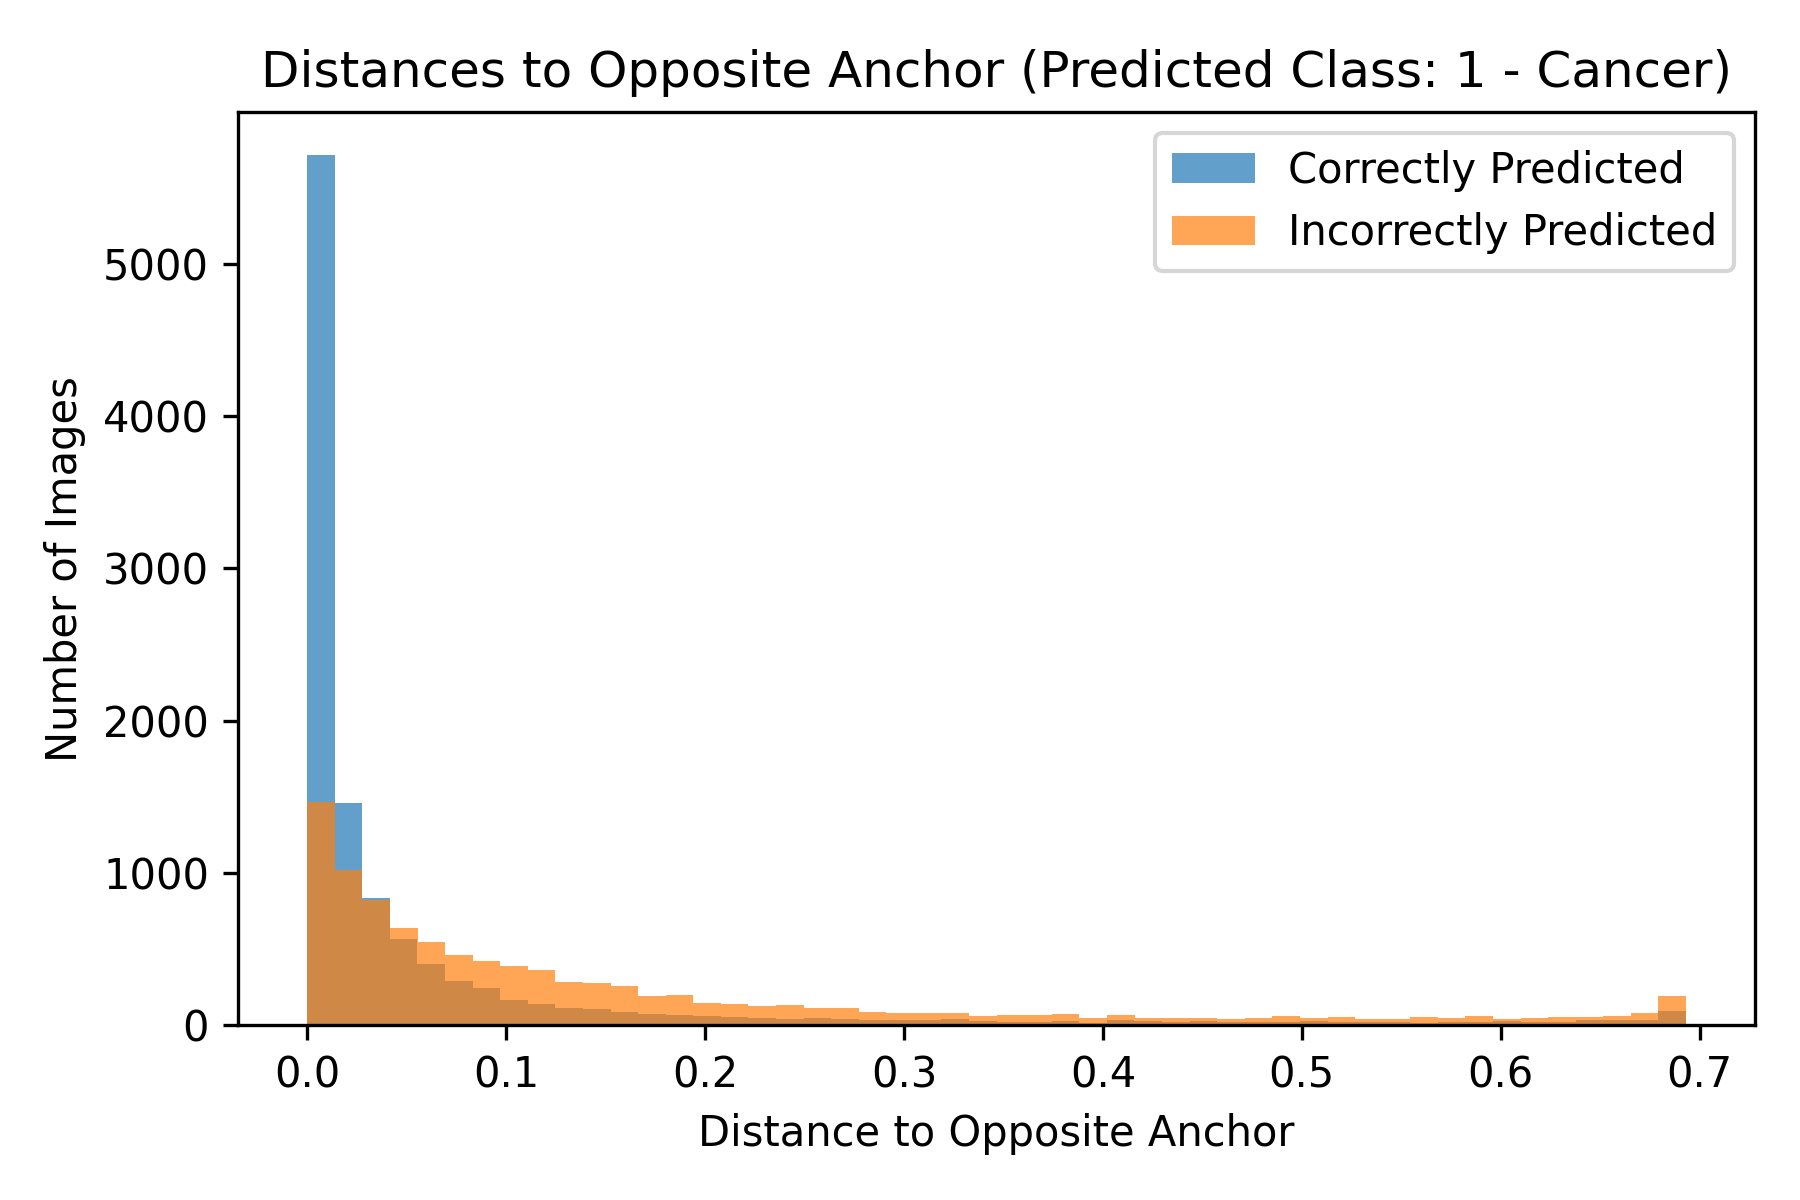
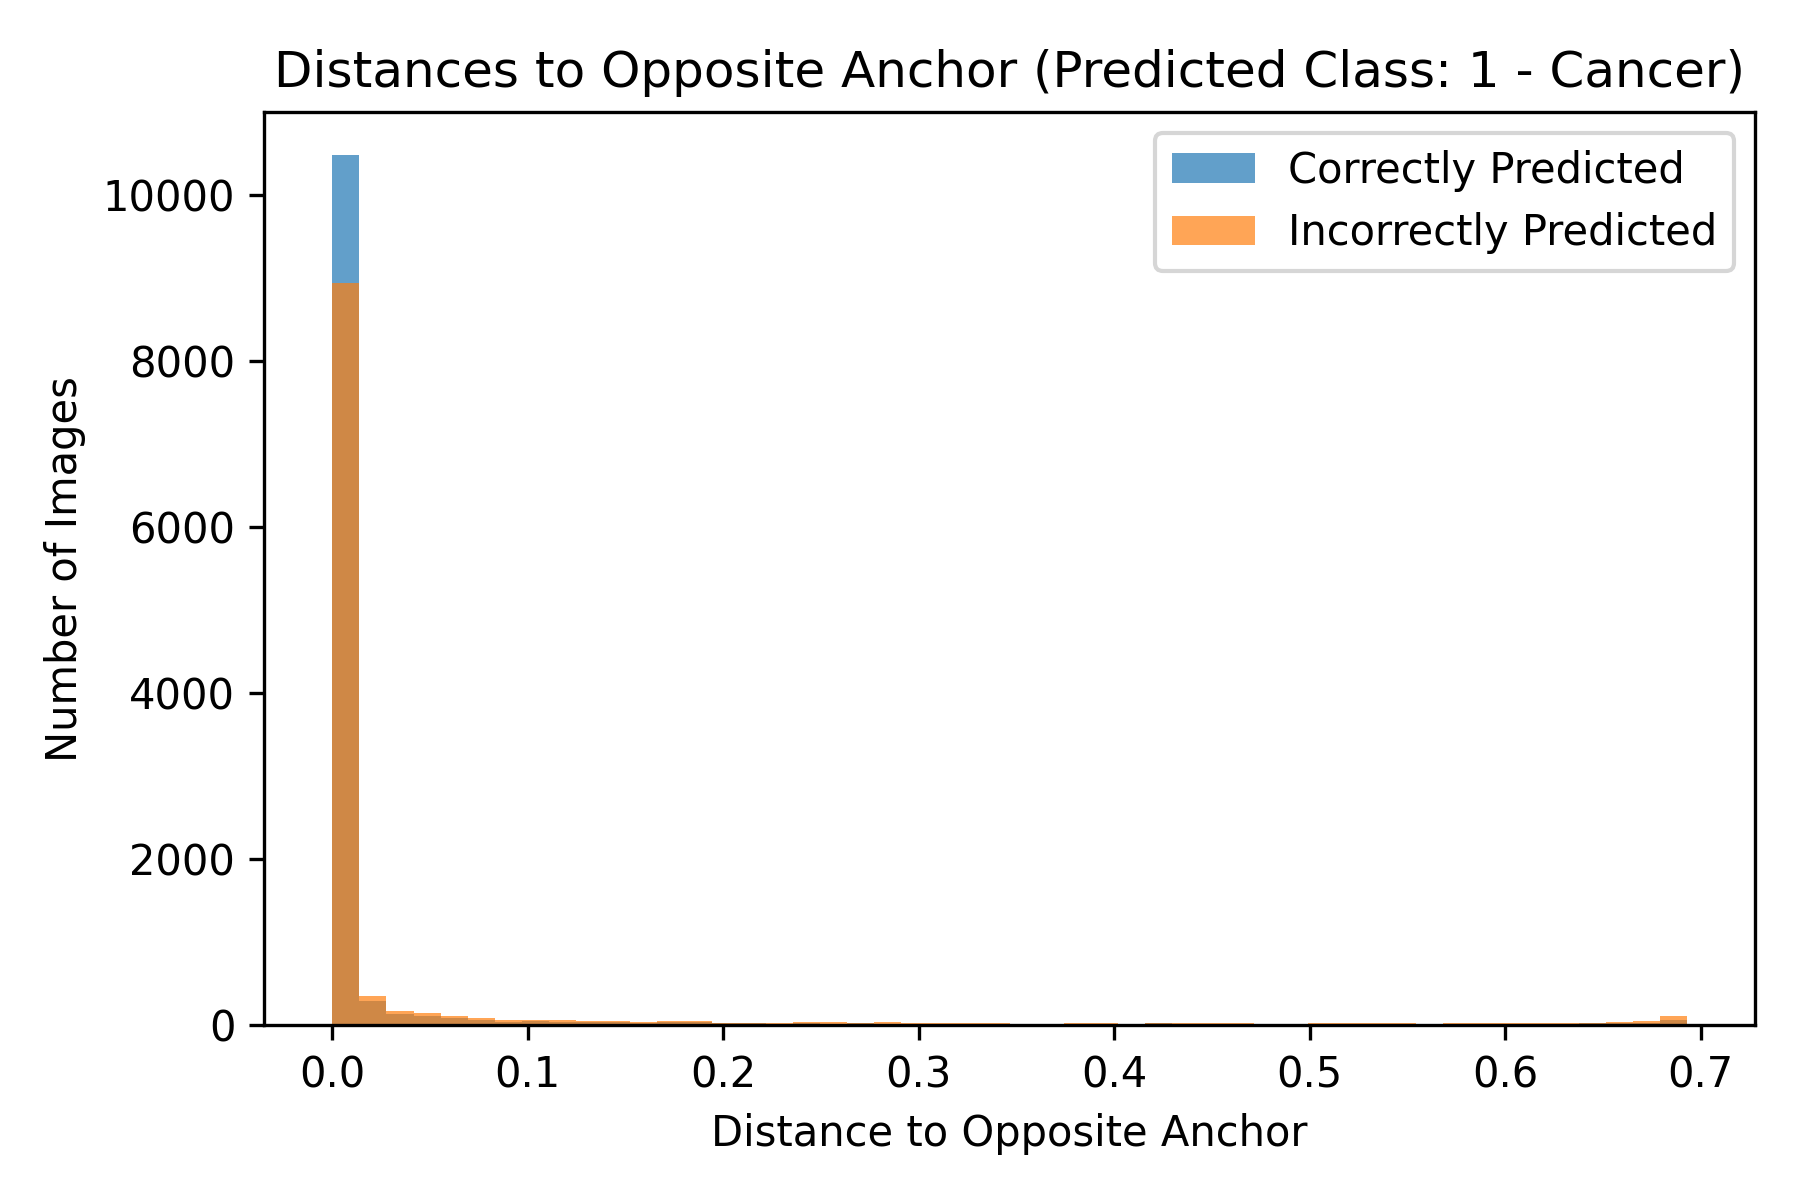
modification deepmil correction feat

Changed region(s): [[0.0622, 0.0925, 0.9333, 0.9558], [0.1244, 0.0308, 0.9644, 0.0925]]

diff --git a/compute_distances.py b/compute_distances.py
@@ -532,6 +532,7 @@ def compute_energy_distributions(model, loader, cam_computer, dataset_name, ener
     'label_images': [],
     'img_ft': [],
     'entropy_imgs': [],
+    'margin_imgs': [],
     }
 
     model.eval()
@@ -552,11 +553,16 @@ def compute_energy_distributions(model, loader, cam_computer, dataset_name, ener
             probs_img = F.softmax(lgt_imgs, dim=1)
             preds = probs_img.argmax(dim=1) 
             entropy_img = -(probs_img * (probs_img + eps).log()).sum(dim=1)
+            sorted_probs, _ = probs_img.sort(dim=1, descending=True)
+            top1 = sorted_probs[:, 0]
+            top2 = sorted_probs[:, 1]
+            margin_img = top1 - top2
 
         energy_data['pred_images'].append(preds.detach().cpu())
         energy_data['label_images'].append(targets.detach().cpu())
         energy_data['img_ft'].append(features.detach().cpu())
         energy_data['entropy_imgs'].append(entropy_img.detach().cpu())
+        energy_data['margin_imgs'].append(margin_img.detach().cpu())
 
     # Concatenation
     energy_data['pred_images'] = torch.cat(energy_data['pred_images']).numpy()
@@ -564,6 +570,7 @@ def compute_energy_distributions(model, loader, cam_computer, dataset_name, ener
     energy_data['img_ft'] = torch.cat(energy_data['img_ft']).numpy()
 
     energy_data['entropy_imgs'] = torch.cat(energy_data['entropy_imgs']).cpu().numpy()
+    energy_data['margin_imgs'] = torch.cat(energy_data['margin_imgs']).cpu().numpy()
 
     return energy_data
 
@@ -711,6 +718,44 @@ def compute_distances_by_predicted_class_and_correctness(energy_data, model):
     }
 
     return results
+
+def compute_margin_by_predicted_class_and_correctness(energy_data, model):
+    """
+    Calcule le margin score pour chaque image,
+    et les regroupe par classe prédite (0 ou 1) et par justesse de la prédiction.
+
+    Args:
+        energy_data (dict): avec les clés 'pred_images', 'label_images', 'margin_imgs'
+
+    Returns:
+        dict contenant 4 groupes :
+        {
+            'class_0_correct': [...],
+            'class_0_incorrect': [...],
+            'class_1_correct': [...],
+            'class_1_incorrect': [...],
+        }
+    """
+    preds = energy_data['pred_images']
+    labels = energy_data['label_images']
+    margin_imgs = energy_data['margin_imgs']
+
+    if isinstance(preds, torch.Tensor):
+        preds = preds.numpy()
+    if isinstance(labels, torch.Tensor):
+        labels = labels.numpy()
+    if isinstance(margin_imgs, torch.Tensor):
+        margin_imgs = margin_imgs.cpu().numpy()
+
+    results = {
+        'class_0_correct': margin_imgs[(preds == 0) & (preds == labels)],
+        'class_0_incorrect': margin_imgs[(preds == 0) & (preds != labels)],
+        'class_1_correct': margin_imgs[(preds == 1) & (preds == labels)],
+        'class_1_incorrect': margin_imgs[(preds == 1) & (preds != labels)],
+    }
+
+    return results
+
 
 def compute_entropy_by_predicted_class_and_correctness(energy_data, model):
     """
@@ -2041,9 +2086,33 @@ def get_features(exp_path, sf_uda_source_folder,image_ids_to_draw,image_ids_to_d
     results_entropy = compute_entropy_by_predicted_class_and_correctness(target_energy, model)
     results = compute_distances_by_predicted_class_and_correctness(target_energy, model)
 
+    results_margin = compute_margin_by_predicted_class_and_correctness(target_energy, model)
 
     # Optionnel : plot
     import matplotlib.pyplot as plt
+
+    
+    # Classe prédite = 0
+    plt.figure(figsize=(6, 4))
+    plt.hist(results_margin['class_0_correct'], bins=50, alpha=0.7, label='Correctly Predicted')
+    plt.hist(results_margin['class_0_incorrect'], bins=50, alpha=0.7, label='Incorrectly Predicted')
+    plt.title("Distances to Opposite Anchor (Predicted Class: 0 - Normal)")
+    plt.xlabel("Distance to Opposite Anchor")
+    plt.ylabel("Number of Images")
+    plt.legend()
+    plt.tight_layout()
+    plt.savefig(os.path.join(out_dir, "margin_class_0_cam_bcl_pixelcam.png"), dpi=300)
+
+    # Classe prédite = 1
+    plt.figure(figsize=(6, 4))
+    plt.hist(results_margin['class_1_correct'], bins=50, alpha=0.7, label='Correctly Predicted')
+    plt.hist(results_margin['class_1_incorrect'], bins=50, alpha=0.7, label='Incorrectly Predicted')
+    plt.title("Distances to Opposite Anchor (Predicted Class: 1 - Cancer)")
+    plt.xlabel("Distance to Opposite Anchor")
+    plt.ylabel("Number of Images")
+    plt.legend()
+    plt.tight_layout()
+    plt.savefig(os.path.join(out_dir, "margin_class_1_cam_bcl_pixelcam.png"), dpi=300)
 
 
     # Classe prédite = 0

diff --git a/compute_energies.py b/compute_energies.py
@@ -1934,7 +1934,7 @@ def get_features(exp_path, sf_uda_source_folder,image_ids_to_draw,image_ids_to_d
         # args_dict['model']['freeze_encoder'] = False
         args_dict['model']['folder_pre_trained_cl'] = None
         #args_dict['pixel_wise_classification'] = False
-        #args_dict['pixel_wise_classification'] = False
+        args_dict['pixel_wise_classification'] = False
         args_dict['multiple_layer_pixel_classifier'] = False
         args_dict['anchors_ortogonal'] = False
         args_dict['detach_pixel_classifier'] = False
@@ -2032,7 +2032,7 @@ def get_features(exp_path, sf_uda_source_folder,image_ids_to_draw,image_ids_to_d
     args_dict['data_root'] = os.path.join(os.environ['DATASETSH'], 'datasets')
     source_domain_data_paths = config.configure_data_paths(args_dict, source_dataset)
 
-    target_metadata_root = join('./folds/wsol-done-right-splits', target_dataset, f"fold-{4}")
+    target_metadata_root = join('./folds/wsol-done-right-splits', target_dataset, f"fold-{args.fold}")
     # args_dict['data_root'] = '/export/gauss/vision/Aguichemerre/datasets'
     target_domain_data_paths = config.configure_data_paths(args_dict, target_dataset)
 
@@ -2189,6 +2189,9 @@ def get_features(exp_path, sf_uda_source_folder,image_ids_to_draw,image_ids_to_d
     ent = target_energy['entropy_px_all']  # shape [N_pixels]
     pred = target_energy['pred_px_all']    # 0=background,1=foreground
     true = target_energy['true_px_all']    # 0=background,1=foreground
+
+    plot_hist_energy_based_on_target_image_acc(target_energy, out_dir, save_path="test", target_dataset=target_dataset, model = model)
+
 
     # 2. Sépare correct vs incorrect
     correct_mask   = (pred == true)

diff --git a/dlib/configure/config.py b/dlib/configure/config.py
@@ -723,6 +723,7 @@ def get_config(ds: str, fold: int, magnification: str) -> dict:
         # https://arxiv.org/pdf/2106.05528.pdf.
         'cdcl': False,  # CDCL method. ON/OFF. May require large memory.
         'cdcl_threshold': 1.0,  # threshold for pseudo-labels.
+        'cdcl_cvg': 0.001,  # convergence value for clustering.
         # ======================================================================
         #                           END - CDCL
         # ======================================================================
@@ -822,6 +823,7 @@ def get_config(ds: str, fold: int, magnification: str) -> dict:
         # https://arxiv.org/abs/2002.08546.
         'sfde': False,  # SFDE method. ON/OFF.
         'sfde_threshold': 1.0, # lambda of this term. >= 0.
+        'sfde_cvg': 0.001,  # convergence value for clustering.
          # ======================================================================
         #                     END - DISTRIBUTION ESTIMATION
         # ======================================================================

diff --git a/dlib/learning/train_wsol.py b/dlib/learning/train_wsol.py
@@ -619,7 +619,8 @@ class Trainer(Basic):
                         n_cls=self.args.num_classes,
                         support_background = self.args.model['support_background'],
                         threshold= self.args.sfde_threshold,
-                        variance= self.args.cdd_variance
+                        variance= self.args.cdd_variance,
+                        convergence= self.args.sfde_cvg
                         )
 
         elif args.faust:
@@ -687,7 +688,8 @@ class Trainer(Basic):
                         task=self.args.task,
                         n_cls=self.args.num_classes,
                         support_background = self.args.model['support_background'],
-                        threshold= self.args.cdcl_threshold
+                        threshold= self.args.cdcl_threshold,
+                        convergence= self.args.cdcl_cvg
                         )
         
         elif args.pxsfde:

diff --git a/dlib/process/parseit.py b/dlib/process/parseit.py
@@ -631,11 +631,15 @@ def get_args(args: dict, eval: bool = False):
                         help='USE/NOT SFDE method for SFUDA.')
     parser.add_argument('--sfde_threshold', type=float, default=None,
                         help='Threshold, 0<T<=1.')
+    parser.add_argument('--sfde_cvg', type=float, default=None,
+                        help='convergence value for clustering.')
     # 5- CDCL
     parser.add_argument('--cdcl', type=str2bool, default=None,
                         help='USE/NOT CDCL method for SFUDA.')
     parser.add_argument('--cdcl_threshold', type=float, default=None,
                         help='Pourcentage of sample to keep for the method for each class.')
+    parser.add_argument('--cdcl_cvg', type=float, default=None,
+                        help='convergence value for clustering.')
 
     # 6- Pixel SFDA
     parser.add_argument('--pxsfde', type=str2bool, default=None,

diff --git a/dlib/poolings/mil.py b/dlib/poolings/mil.py
@@ -90,9 +90,9 @@ class DeepMil(_BasicPooler):
     def forward(self, x: torch.Tensor) -> torch.Tensor:
         self.assert_x(x)
 
-        ft = self.avg_pool(x)
-        ft = ft.reshape(ft.size(0), -1)
-        self.lin_ft = ft  # bsz, sz
+        #ft = self.avg_pool(x)
+        #ft = ft.reshape(ft.size(0), -1)
+        #self.lin_ft = ft  # bsz, sz
 
         attention_scores = self.attention(x)  # N x C x H x W
         shape = attention_scores.shape
@@ -104,6 +104,9 @@ class DeepMil(_BasicPooler):
         for i, m in enumerate(self.classification):
             scores.append(m(out[:, i]))
         logits = torch.cat(scores, 1)
+
+        preds = logits.argmax(dim=1)    # N
+        self.lin_ft = out[torch.arange(out.size(0)), preds]  # N × C
 
         return logits
 

diff --git a/dlib/sf_uda/sfde.py b/dlib/sf_uda/sfde.py
@@ -225,15 +225,17 @@ class Sfde(object):
                  support_background = False,
                  threshold = 1.0,
                  variance=1.0,
+                 convergence = 0.001,
                  ):
         
 
         self.model = model_trg
         self.train_loader_trg = train_loader_trg
-        self.clustering = Clustering(0.001,'feats',model_trg, 1000)
+        self.clustering = Clustering(convergence,'feats',model_trg, 1000)
         self.support_background = support_background
         self.threshold = threshold
         self.variance = variance
+        self.convergence = convergence
         #self.source_anchors = F.normalize(torch.randn(2, 2048), dim=1).cpu()
 
     def solve(self):

diff --git a/dlib/sf_uda/cdcl.py b/dlib/sf_uda/cdcl.py
@@ -225,14 +225,16 @@ class Cdcl(object):
                  dist_type = 'cos',
                  support_background = False,
                  threshold = 1.0,
+                 convergence = 0.001
                  ):
         
 
         self.model = model_trg
         self.train_loader_trg = train_loader_trg
-        self.clustering = Clustering(0.001,'feats',1000)
+        self.clustering = Clustering(convergence,'feats',1000)
         self.support_background = support_background
         self.threshold = threshold
+        self.convergence = convergence
         #self.source_anchors = F.normalize(torch.randn(2, 2048), dim=1).cpu()
 
     def solve(self):
